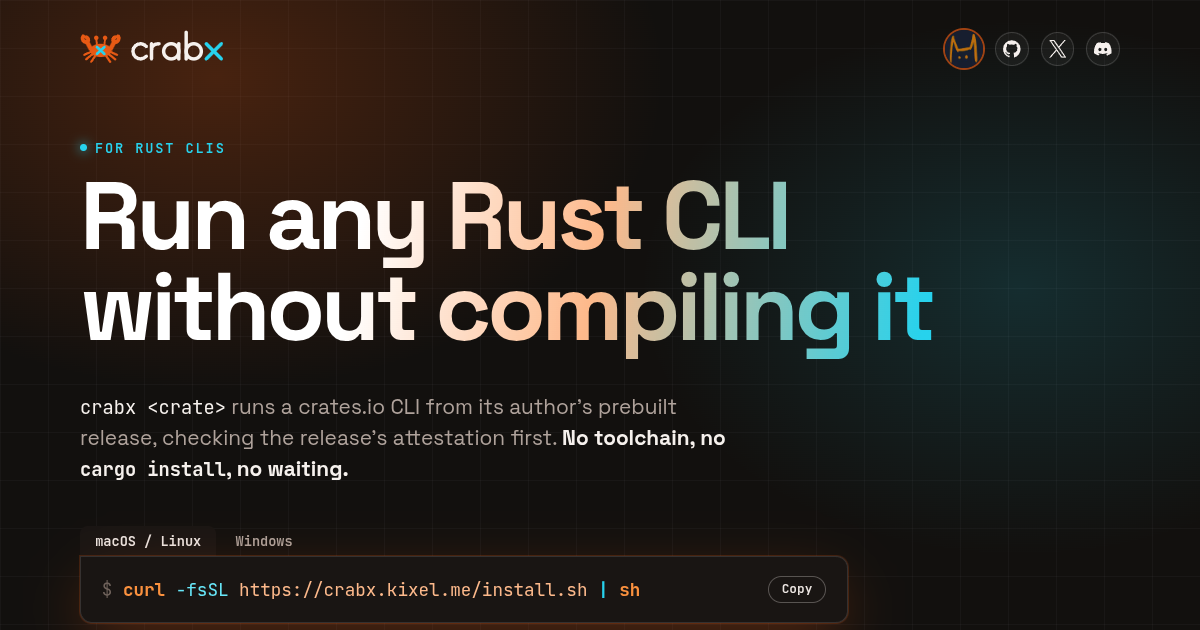
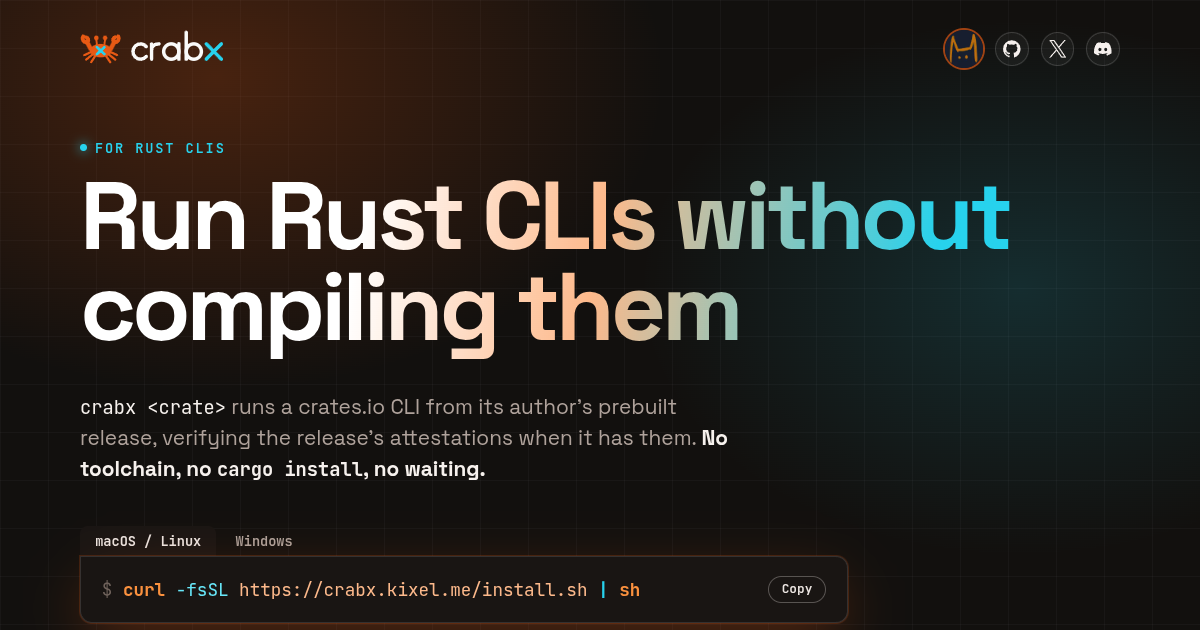
fix(site): settle review round 1
State that a release without attestations runs unverified, name the pipeline's
repository and version requirements, tell Windows users to open a new terminal,
serve assets/logo's lockup instead of an inline copy, check the page's own assets
and the live installer URLs (nightly), and fix the narrow-grid and rail breakpoints.

diff --git a/site/index.html b/site/index.html
@@ -6,7 +6,7 @@
 <!-- GitHub Pages sends no custom headers, so the policy lives here: the page loads nothing from another origin. -->
 <meta http-equiv="Content-Security-Policy" content="default-src 'none'; img-src 'self'; style-src 'self'; script-src 'self'; font-src 'self'; base-uri 'none'; form-action 'none'">
 <title>crabx: run Rust CLIs without compiling them</title>
-<meta name="description" content="crabx runs a crates.io CLI from its author's prebuilt release, checking the release's attestation first. No toolchain, no cargo install.">
+<meta name="description" content="crabx runs a crates.io CLI from its author's prebuilt release, verifying the release's attestations when it has them. No toolchain, no cargo install.">
 <link rel="icon" href="favicon.svg" type="image/svg+xml">
 <link rel="stylesheet" href="style.css">
 <script src="site.js" defer></script>
@@ -15,7 +15,7 @@
 <meta property="og:type" content="website">
 <meta property="og:url" content="https://crabx.kixel.me/">
 <meta property="og:title" content="crabx: run Rust CLIs without compiling them">
-<meta property="og:description" content="crabx runs a crates.io CLI from its author's prebuilt release, checking the release's attestation first. No toolchain, no cargo install.">
+<meta property="og:description" content="crabx runs a crates.io CLI from its author's prebuilt release, verifying the release's attestations when it has them. No toolchain, no cargo install.">
 <!-- og.png is a 1200x630 screenshot of this page's top; retake it after changing that part. -->
 <meta property="og:image" content="https://crabx.kixel.me/og.png">
 <meta property="og:image:width" content="1200">
@@ -26,9 +26,9 @@
 <body>
 <div class="glow" aria-hidden="true"></div>
 <header class="top">
-  <!-- The lockup from assets/logo, with the wordmark in currentColor so it follows the text color. -->
-  <svg class="logo" viewBox="0 0 230 66" role="img" aria-label="crabx"><title>crabx</title><g transform="translate(0.8,-3.4)"><path d="M17 41L6 46" stroke="#e8590c" stroke-width="3.5" stroke-linecap="round"/><path d="M19 45L9 53" stroke="#e8590c" stroke-width="3.5" stroke-linecap="round"/><path d="M23 48L17 57" stroke="#e8590c" stroke-width="3.5" stroke-linecap="round"/><path d="M47 41L58 46" stroke="#e8590c" stroke-width="3.5" stroke-linecap="round"/><path d="M45 45L55 53" stroke="#e8590c" stroke-width="3.5" stroke-linecap="round"/><path d="M41 48L47 57" stroke="#e8590c" stroke-width="3.5" stroke-linecap="round"/><g transform="translate(16,36) rotate(-28) scale(0.42)" fill="none" stroke="#e8590c" stroke-linecap="round" stroke-linejoin="round"><path d="M0 0V-30" stroke-width="16.7"/><path d="M-2 -28C-13 -33 -13 -49 -3 -54M2 -28C10 -31 11 -41 5 -46" stroke-width="14.3"/></g><g transform="translate(48,36) scale(-1,1) rotate(-28) scale(0.42)" fill="none" stroke="#e8590c" stroke-linecap="round" stroke-linejoin="round"><path d="M0 0V-30" stroke-width="16.7"/><path d="M-2 -28C-13 -33 -13 -49 -3 -54M2 -28C10 -31 11 -41 5 -46" stroke-width="14.3"/></g><path d="M26 29L25 21M38 29L39 21" stroke="#e8590c" stroke-width="3" stroke-linecap="round"/><circle cx="25" cy="19" r="3.5" fill="#e8590c"/><circle cx="39" cy="19" r="3.5" fill="#e8590c"/><ellipse cx="32" cy="39" rx="17.0" ry="10.5" fill="#e8590c"/><path d="M26 33.5L38 44.5M38 33.5L26 44.5" stroke="#22d3ee" stroke-width="4.2" stroke-linecap="round"/></g><g transform="translate(0,-3)" fill="none" stroke-width="5.5" stroke-linecap="round" stroke-linejoin="round"><path d="M105.19 32.29A12 12 0 1 0 105.19 47.71" stroke="currentColor"/><path d="M113.5 28V52M113.5 38C113.5 31 118.5 28 125.5 28" stroke="currentColor"/><path d="M156.75 28V52" stroke="currentColor"/><circle cx="144.75" cy="40" r="12" stroke="currentColor"/><path d="M168.5 10V52" stroke="currentColor"/><circle cx="180.5" cy="40" r="12" stroke="currentColor"/><path d="M200.25 28L224.25 52M224.25 28L200.25 52" stroke="#22d3ee"/></g></svg>
-  <!-- Icons from Simple Icons (CC0), inline so the page loads nothing from another origin. -->
+  <!-- site.yml copies assets/logo/logo-on-dark.svg here as logo.svg. -->
+  <img class="logo" src="logo.svg" alt="crabx" width="230" height="66">
+  <!-- Icons from Simple Icons 16.38.1 (CC0), inline so the page loads nothing from another origin. -->
   <div class="me">
     <a class="avatar" href="https://kixel.me"><img src="avatar.webp" alt="kixel.me" width="48" height="48"></a>
     <a href="https://github.com/kixel-ai/crabx" aria-label="GitHub"><svg viewBox="0 0 24 24" aria-hidden="true"><path d="M12 .297c-6.63 0-12 5.373-12 12 0 5.303 3.438 9.8 8.205 11.385.6.113.82-.258.82-.577 0-.285-.01-1.04-.015-2.04-3.338.724-4.042-1.61-4.042-1.61C4.422 18.07 3.633 17.7 3.633 17.7c-1.087-.744.084-.729.084-.729 1.205.084 1.838 1.236 1.838 1.236 1.07 1.835 2.809 1.305 3.495.998.108-.776.417-1.305.76-1.605-2.665-.3-5.466-1.332-5.466-5.93 0-1.31.465-2.38 1.235-3.22-.135-.303-.54-1.523.105-3.176 0 0 1.005-.322 3.3 1.23.96-.267 1.98-.399 3-.405 1.02.006 2.04.138 3 .405 2.28-1.552 3.285-1.23 3.285-1.23.645 1.653.24 2.873.12 3.176.765.84 1.23 1.91 1.23 3.22 0 4.61-2.805 5.625-5.475 5.92.42.36.81 1.096.81 2.22 0 1.606-.015 2.896-.015 3.286 0 .315.21.69.825.57C20.565 22.092 24 17.592 24 12.297c0-6.627-5.373-12-12-12"/></svg></a>
@@ -40,9 +40,9 @@
 <main>
 <section class="hero">
   <p class="eyebrow">For Rust CLIs</p>
-  <h1>Run any Rust CLI without compiling it</h1>
+  <h1>Run Rust CLIs without compiling them</h1>
   <p class="lede"><code>crabx &lt;crate&gt;</code> runs a crates.io CLI from its author's
-  prebuilt release, checking the release's attestation first.
+  prebuilt release, verifying the release's attestations when it has them.
   <strong>No toolchain, no <code>cargo install</code>, no waiting.</strong></p>
 
   <div class="install">
@@ -58,6 +58,7 @@
       <pre class="cmd windows"><code><span class="tk-prompt">&gt; </span><span class="sel"><span class="tk-bin">powershell</span> <span class="tk-flag">-ExecutionPolicy</span> Bypass <span class="tk-flag">-c</span> "<span class="tk-bin">irm</span> <span class="tk-url">https://crabx.kixel.me/install.ps1</span> <span class="tk-op">|</span> <span class="tk-bin">iex</span>"</span></code></pre>
       <button class="copy" type="button" hidden>Copy</button>
     </div>
+    <p class="also windows">Then open a new terminal, which picks up crabx on your Path.</p>
     <p class="also">Or with npm or Cargo, then run any crate:</p>
     <div class="run more">
       <pre><code><span class="tk-prompt">$ </span><span class="sel"><span class="tk-bin">npm</span> install <span class="tk-flag">-g</span> @kixel/crabx</span>
@@ -113,12 +114,13 @@ Flags:
       <h3>Verify</h3>
       <p>Checks GitHub's attestations for the archive's SHA-256 against Sigstore's
       trust root, and requires the signer to be the crate's repository or crabx's
-      pipeline. <strong>A bad attestation is an error, never a warning.</strong></p>
+      pipeline. <strong>A bad attestation is an error, never a warning.</strong> A release
+      with none, such as moq-relay's above, runs unverified.</p>
     </li>
     <li>
       <span class="num">03</span>
       <h3>Cache</h3>
-      <p>Keeps the verified binary per crate, version, and platform, then runs it with
+      <p>Keeps the binary per crate, version, and platform, then runs it with
       your arguments. <strong>A pinned, cached run makes no network request</strong>;
       an unpinned one updates in the background.</p>
     </li>
@@ -129,8 +131,9 @@ Flags:
   <h2 id="authors">Ship your crate's binaries</h2>
   <p class="lede">Publishing to crates.io is enough. Run <code>crabx init</code> once in your
   crate's repository: it writes one workflow that calls crabx's release pipeline, which
-  builds every crates.io version you publish for all six platforms and attaches
-  attested archives to its GitHub release.</p>
+  builds every crates.io version you publish from then on for all six platforms and
+  attaches attested archives to its GitHub release. The repository must be public and
+  be the one your crate's <code>repository</code> field names on crates.io.</p>
   <div class="run more">
     <pre><code><span class="tk-prompt">$ </span><span class="sel"><span class="tk-bin">crabx</span> init</span>
 <span class="d">wrote /home/you/mycrate/.github/workflows/binaries.yml; commit it and push it to main</span></code></pre>

diff --git a/site/style.css b/site/style.css
@@ -1,5 +1,8 @@
 /* crabx.kixel.me: one page, no build step. Dark only, in the logo's orange and cyan. */
 
+/* Both fonts are OFL, subset to Latin, and copied unchanged from kixel-ai/token-max@0c8c48d
+   (site/public/fonts); upstream: github.com/floriankarsten/space-grotesk and
+   github.com/JetBrains/JetBrainsMono. */
 @font-face { font-family: "Space Grotesk"; src: url("fonts/SpaceGrotesk.woff2") format("woff2"); font-weight: 300 700; font-display: swap; }
 @font-face { font-family: "JetBrains Mono"; src: url("fonts/JetBrainsMono.woff2") format("woff2"); font-weight: 100 800; font-display: swap; }
 
@@ -133,7 +136,8 @@ h1 {
 #os-unix:focus-visible ~ .tabs label[for="os-unix"],
 #os-windows:focus-visible ~ .tabs label[for="os-windows"] { outline: 2px solid var(--link); outline-offset: 2px; }
 #os-unix:checked ~ .run .windows,
-#os-windows:checked ~ .run .unix { display: none; }
+#os-windows:checked ~ .run .unix,
+#os-unix:checked ~ .windows { display: none; }
 
 .run {
 	position: relative;
@@ -211,7 +215,7 @@ h2 { margin: 6rem 0 2rem; font-size: clamp(1.8rem, 4vw, 2.6rem); font-weight: 70
 .steps {
 	position: relative;
 	display: grid;
-	grid-template-columns: repeat(auto-fit, minmax(17rem, 1fr));
+	grid-template-columns: repeat(auto-fit, minmax(min(17rem, 100%), 1fr));
 	gap: 2rem;
 	margin: 0;
 	padding: 0;
@@ -246,7 +250,8 @@ h2 { margin: 6rem 0 2rem; font-size: clamp(1.8rem, 4vw, 2.6rem); font-weight: 70
 .steps p { margin: 0; color: var(--muted); font-size: 0.98rem; }
 .steps strong, .steps code { color: var(--ink); }
 .steps code { white-space: nowrap; }
-@media (max-width: 56rem) { .steps::before { display: none; } }
+/* Three columns need 3 x 17rem + 2 x 2rem of content plus the section's padding. */
+@media (max-width: 58rem) { .steps::before { display: none; } }
 
 .authors .lede { margin: 0 0 1.5rem; }
 

diff --git a/site/site.js b/site/site.js
@@ -1,7 +1,7 @@
 // Enhancements only: without this script the tabs still switch and the commands still select on click.
 
 // Pick the install command for this OS.
-const platform = navigator.userAgentData?.platform ?? navigator.platform ?? "";
+const platform = navigator.userAgentData?.platform || navigator.platform || "";
 if (/^win/i.test(platform)) document.getElementById("os-windows").checked = true;
 
 // Copy the visible command.

diff --git a/test_release.py b/test_release.py
@@ -451,22 +451,32 @@ class Workflow(unittest.TestCase):
         self.assertIn("permissions:\n  contents: read\n", head)
 
     def test_site_urls_are_deployed(self):
-        # Every crabx.kixel.me URL users see names a file the Pages job publishes: one under
-        # site/, which it copies whole, or an installer it copies beside them.
+        # Every crabx.kixel.me URL users see, and every file the page loads, names a file the
+        # Pages job publishes: site/, which it copies whole, or a file it copies beside it.
         site = (HERE / ".github/workflows/site.yml").read_text()
         self.assertRegex(site, r"\n +cp -r site _site\n")
+        deployed = {p.relative_to(HERE / "site").as_posix() for p in (HERE / "site").rglob("*") if p.is_file()}
+        for line in re.findall(r"(?m)^ +cp ([^\n]*) _site/(\S*)$", site):
+            sources, dest = line[0].split(), line[1]
+            self.assertTrue(all((HERE / src).is_file() for src in sources), sources)
+            deployed |= {dest} if dest else {Path(src).name for src in sources}
         files = ("README.md", "install.sh", "install.ps1", "site/index.html")
         texts = [(HERE / f).read_text() for f in files]
-        urls = {u for t in texts for u in re.findall(r"https://crabx\.kixel\.me/(\S*?)(?=[\s\"|<])", t)}
+        urls = {u.rstrip(".") for t in texts for u in re.findall(r"https://crabx\.kixel\.me/?([^\s\"'|<>)`#?]*)", t)}
         self.assertTrue({"install.sh", "install.ps1"} <= urls)
         for name in urls:
-            if name in ("install.sh", "install.ps1"):
-                self.assertRegex(site, rf"\n +cp [^\n]*\b{re.escape(name)}\b[^\n]*_site/")
-            else:
-                self.assertTrue((HERE / "site" / (name or "index.html")).is_file(), name)
+            self.assertIn(name or "index.html", deployed)
+        page = (HERE / "site/index.html").read_text()
+        refs = re.findall(r"""(?:href|src)="([^"]+)\"""", page)
+        refs += [u for css in (HERE / "site").glob("*.css") for u in re.findall(r"url\(\"?([^\")]+)", css.read_text())]
+        local = [r for r in refs if "://" not in r and not r.startswith("#")]
+        self.assertIn("logo.svg", local)
+        for ref in local:
+            self.assertIn(ref, deployed)
         self.assertEqual("".join(texts).count("raw.githubusercontent"), 0)
         # The retired domain serves nothing.
         self.assertEqual("".join(texts).count("crabx.kixel.ai"), 0)
+
 
 if __name__ == "__main__":
     unittest.main()

diff --git a/quest/m2/audit-docs.md b/quest/m2/audit-docs.md
@@ -8,7 +8,7 @@ Run the `docs` audit: `quest audit docs` prints what it checks, what each findin
 
 - Baseline: `f1d6151`, the `main` commit the m1 run read. Start from `git diff f1d6151 -- . ':!quest'` and read what changed claim by claim.
 - Out of scope: `quest/`, which the tree audit owns; the imported upstream code and `CHANGELOG.md` under `vendor/binstalk-fetchers/`, though `vendor/README.md`'s list of local changes is in scope; and the quest-installed skills under `.claude/` and `.agents/`.
-- Check first: `README.md` and `pipeline/README.md` against `src/`, `pipeline/pipeline.py`, and the workflows, since both restate behavior in prose; and the deployed installers at `https://crabx.kixel.me/install.sh` and `/install.ps1` against `main`'s copies.
+- Check first: `README.md`, `pipeline/README.md`, and `site/index.html` against `src/`, `pipeline/pipeline.py`, and the workflows, since all three restate behavior in prose, the site including a captured `crabx` run; and the deployed installers at `https://crabx.kixel.me/install.sh` and `/install.ps1` against `main`'s copies.
 - crabx is a binary crate, so it has no exported items for a missing-docs lint to check.
 - `cargo install crabx` is live since crabx 0.1.0 reached crates.io; check it end to end. Once `@kixel/crabx` is on npm, check `npm install -g @kixel/crabx` end to end too; the docs no longer offer `npx crabx` or `bunx crabx`, since npm refused the unscoped name.
 

diff --git a/quest/m0/first-publish.md b/quest/m0/first-publish.md
@@ -23,13 +23,13 @@ Decided by the maintainer on 2026-11-22, in
 for crabx's move from `kixel-ai/rust2` to this repository, so both registries trust this
 repository's `release.yml` from the first version.
 
-The installers are served at `crabx.kixel.ai` by GitHub Pages:
-`.github/workflows/installers.yml` deploys `install.sh` and `install.ps1`
-whenever main changes them. kixel.ai's DNS is on Cloudflare, so the record points the
-subdomain at GitHub; a Cloudflare redirect to the raw files was rejected because it lives
-outside the repository and serves whatever path layout main happens to have.
+The installers are served at `crabx.kixel.me` by GitHub Pages, beside crabx's site:
+`.github/workflows/site.yml` deploys `site/`, `install.sh`, and `install.ps1` whenever main
+changes them. A Cloudflare redirect to the raw files was rejected because it lives outside
+the repository and serves whatever path layout main happens to have.
 
-Done on 2026-11-18 (/quest-complete, with the maintainer's go-ahead): `kixel.ai` is verified
+Done on 2026-11-18 (/quest-complete, with the maintainer's go-ahead), at the domain the site
+later replaced: `kixel.ai` is verified
 for Pages in the kixel-ai organization; Pages builds from Actions at `crabx.kixel.ai`;
 Cloudflare has the challenge TXT record and the `crabx` CNAME to `kixel-ai.github.io`, DNS
 only; and only `main` may deploy to the `github-pages`, `crates-io`, and `npm` environments.

diff --git a/quest/m0/promote-site.md b/quest/m0/promote-site.md
@@ -7,9 +7,10 @@ where they choose, such as X and the moq Discord.
 
 ## Plan
 
-The site is `site/`, deployed by `.github/workflows/site.yml`. Its domain switch from
-crabx.kixel.ai ran after the site's PR merged; until https://crabx.kixel.me/install.sh
-prints the installer, the site isn't live yet.
+The Pages domain switch from crabx.kixel.ai to crabx.kixel.me runs after the site's PR,
+[kixel-ai/crabx#23](https://github.com/kixel-ai/crabx/pull/23), merges, as its body lists;
+the nightly `site` job in `.github/workflows/e2e.yml` fails until it has. Start this once
+https://crabx.kixel.me/install.sh prints the installer.
 
 Decided 2026-11-24 (maintainer, [kixel-ai/crabx#23](https://github.com/kixel-ai/crabx/pull/23#issuecomment-7141565098)):
 ✅ keep this follow-up (rejected: drop).
